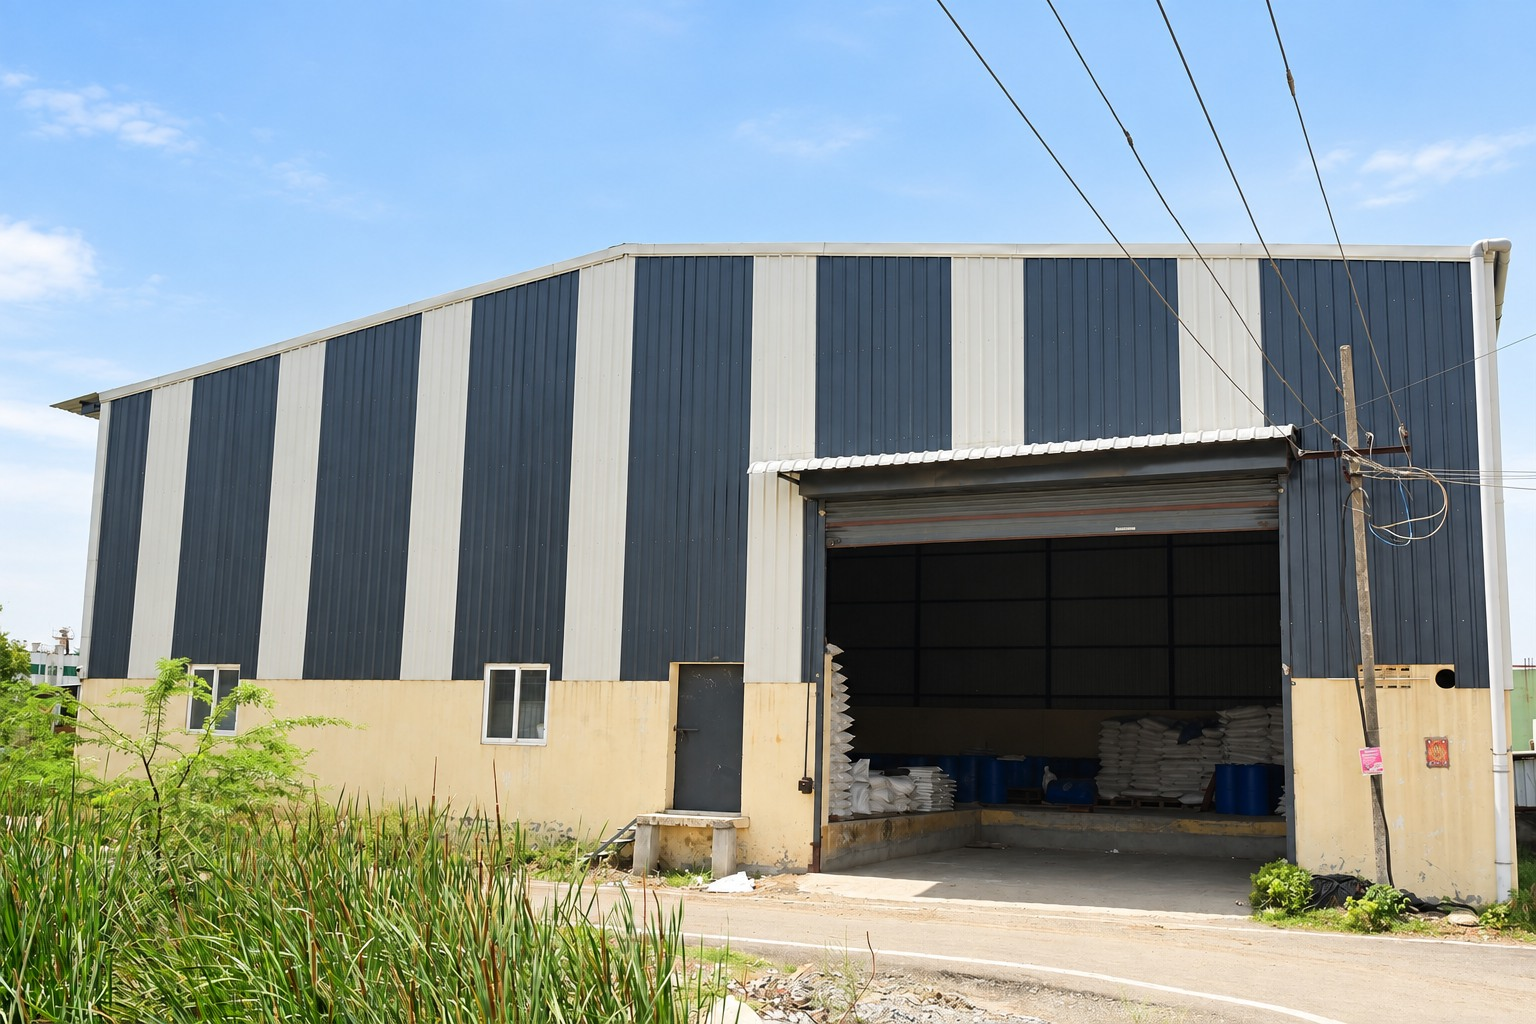
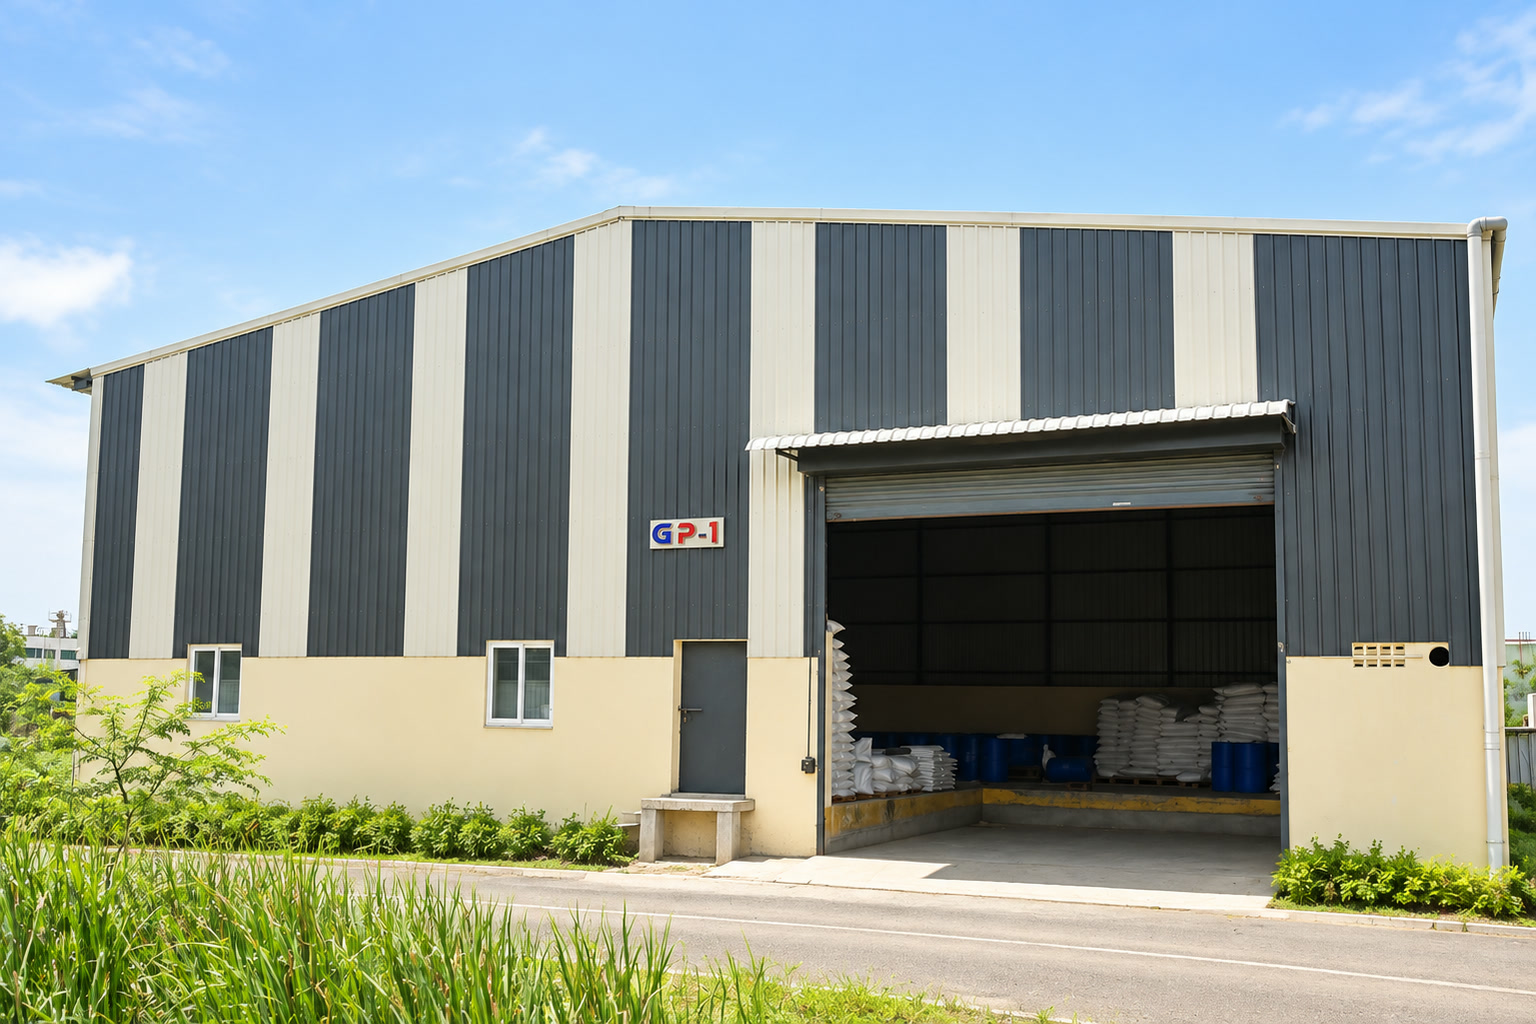
Improve About page warehouse gallery

diff --git a/app/about/about.module.css b/app/about/about.module.css
@@ -162,11 +162,11 @@
 .portfolioSection{padding-bottom:clamp(34px,3vw,46px)}
 .warehouseSection{display:grid;grid-template-columns:minmax(0,1.22fr) minmax(0,.78fr);gap:clamp(36px,4.5vw,68px);padding:clamp(52px,5vw,70px) max(5vw,calc((100vw - 1380px)/2));align-items:center;overflow:hidden;background:linear-gradient(135deg,#fffaf5 0%,#f3e7d9 100%)}
 .warehouseGallery{position:relative;display:flex;min-width:0;padding:12px 0 20px;align-items:flex-start}
-.warehouseGallery figure{position:relative;flex:0 0 58%;margin:0;overflow:hidden;border:1px solid rgba(255,255,255,.72);border-radius:24px;background:#d9c8b8;box-shadow:0 28px 65px rgba(55,27,12,.2);will-change:transform}
+.warehouseGallery figure{position:relative;flex:0 0 52%;margin:0;overflow:hidden;border:1px solid rgba(255,255,255,.72);border-radius:24px;background:#d9c8b8;box-shadow:0 28px 65px rgba(55,27,12,.2);will-change:transform}
 .warehouseGallery img{display:block;width:100%;height:100%;object-fit:cover}
 .warehouseGallery figcaption{position:absolute;right:18px;bottom:16px;padding:9px 13px;border:1px solid rgba(255,255,255,.32);border-radius:999px;background:rgba(35,17,8,.76);backdrop-filter:blur(8px);color:#fff;font:750 10px/1 'Manrope','Segoe UI',sans-serif;letter-spacing:.08em;text-transform:uppercase}
 .warehousePhotoPrimary{z-index:2;aspect-ratio:3/2;animation:warehouseFloatPrimary 6.4s ease-in-out infinite}
-.warehousePhotoSecondary{z-index:1;margin-top:96px!important;margin-left:-12%!important;aspect-ratio:3/2;animation:warehouseFloatSecondary 7.2s ease-in-out infinite}
+.warehousePhotoSecondary{z-index:1;margin-top:33%!important;margin-left:-4%!important;aspect-ratio:3/2;animation:warehouseFloatSecondary 7.2s ease-in-out infinite}
 .warehousePhotoSecondary:before{position:absolute;z-index:1;inset:0;border:8px solid rgba(255,255,255,.42);border-radius:inherit;pointer-events:none;content:""}
 .warehouseCopy{min-width:0;max-width:570px}
 .warehouseCopy h2{margin:14px 0 23px;color:#21150e;font:800 clamp(38px,4.4vw,58px)/1.05 'Manrope','Segoe UI',sans-serif;letter-spacing:-.05em}
@@ -193,8 +193,8 @@
   .warehouseSection{gap:30px;padding:44px 18px}
   .warehouseGallery{padding:8px 0 14px}
   .warehouseGallery figure{border-radius:16px}
-  .warehouseGallery figure{flex-basis:67%}
-  .warehousePhotoSecondary{margin-top:68px!important;margin-left:-34%!important}
+  .warehouseGallery figure{flex-basis:52%}
+  .warehousePhotoSecondary{margin-top:33%!important;margin-left:-4%!important}
   .warehouseGallery figcaption{right:11px;bottom:10px;padding:7px 9px;font-size:8px}
   .warehouseCopy h2{font-size:clamp(33px,9.5vw,40px)}
   .warehouseCopy>p{font-size:14px;line-height:1.7}
